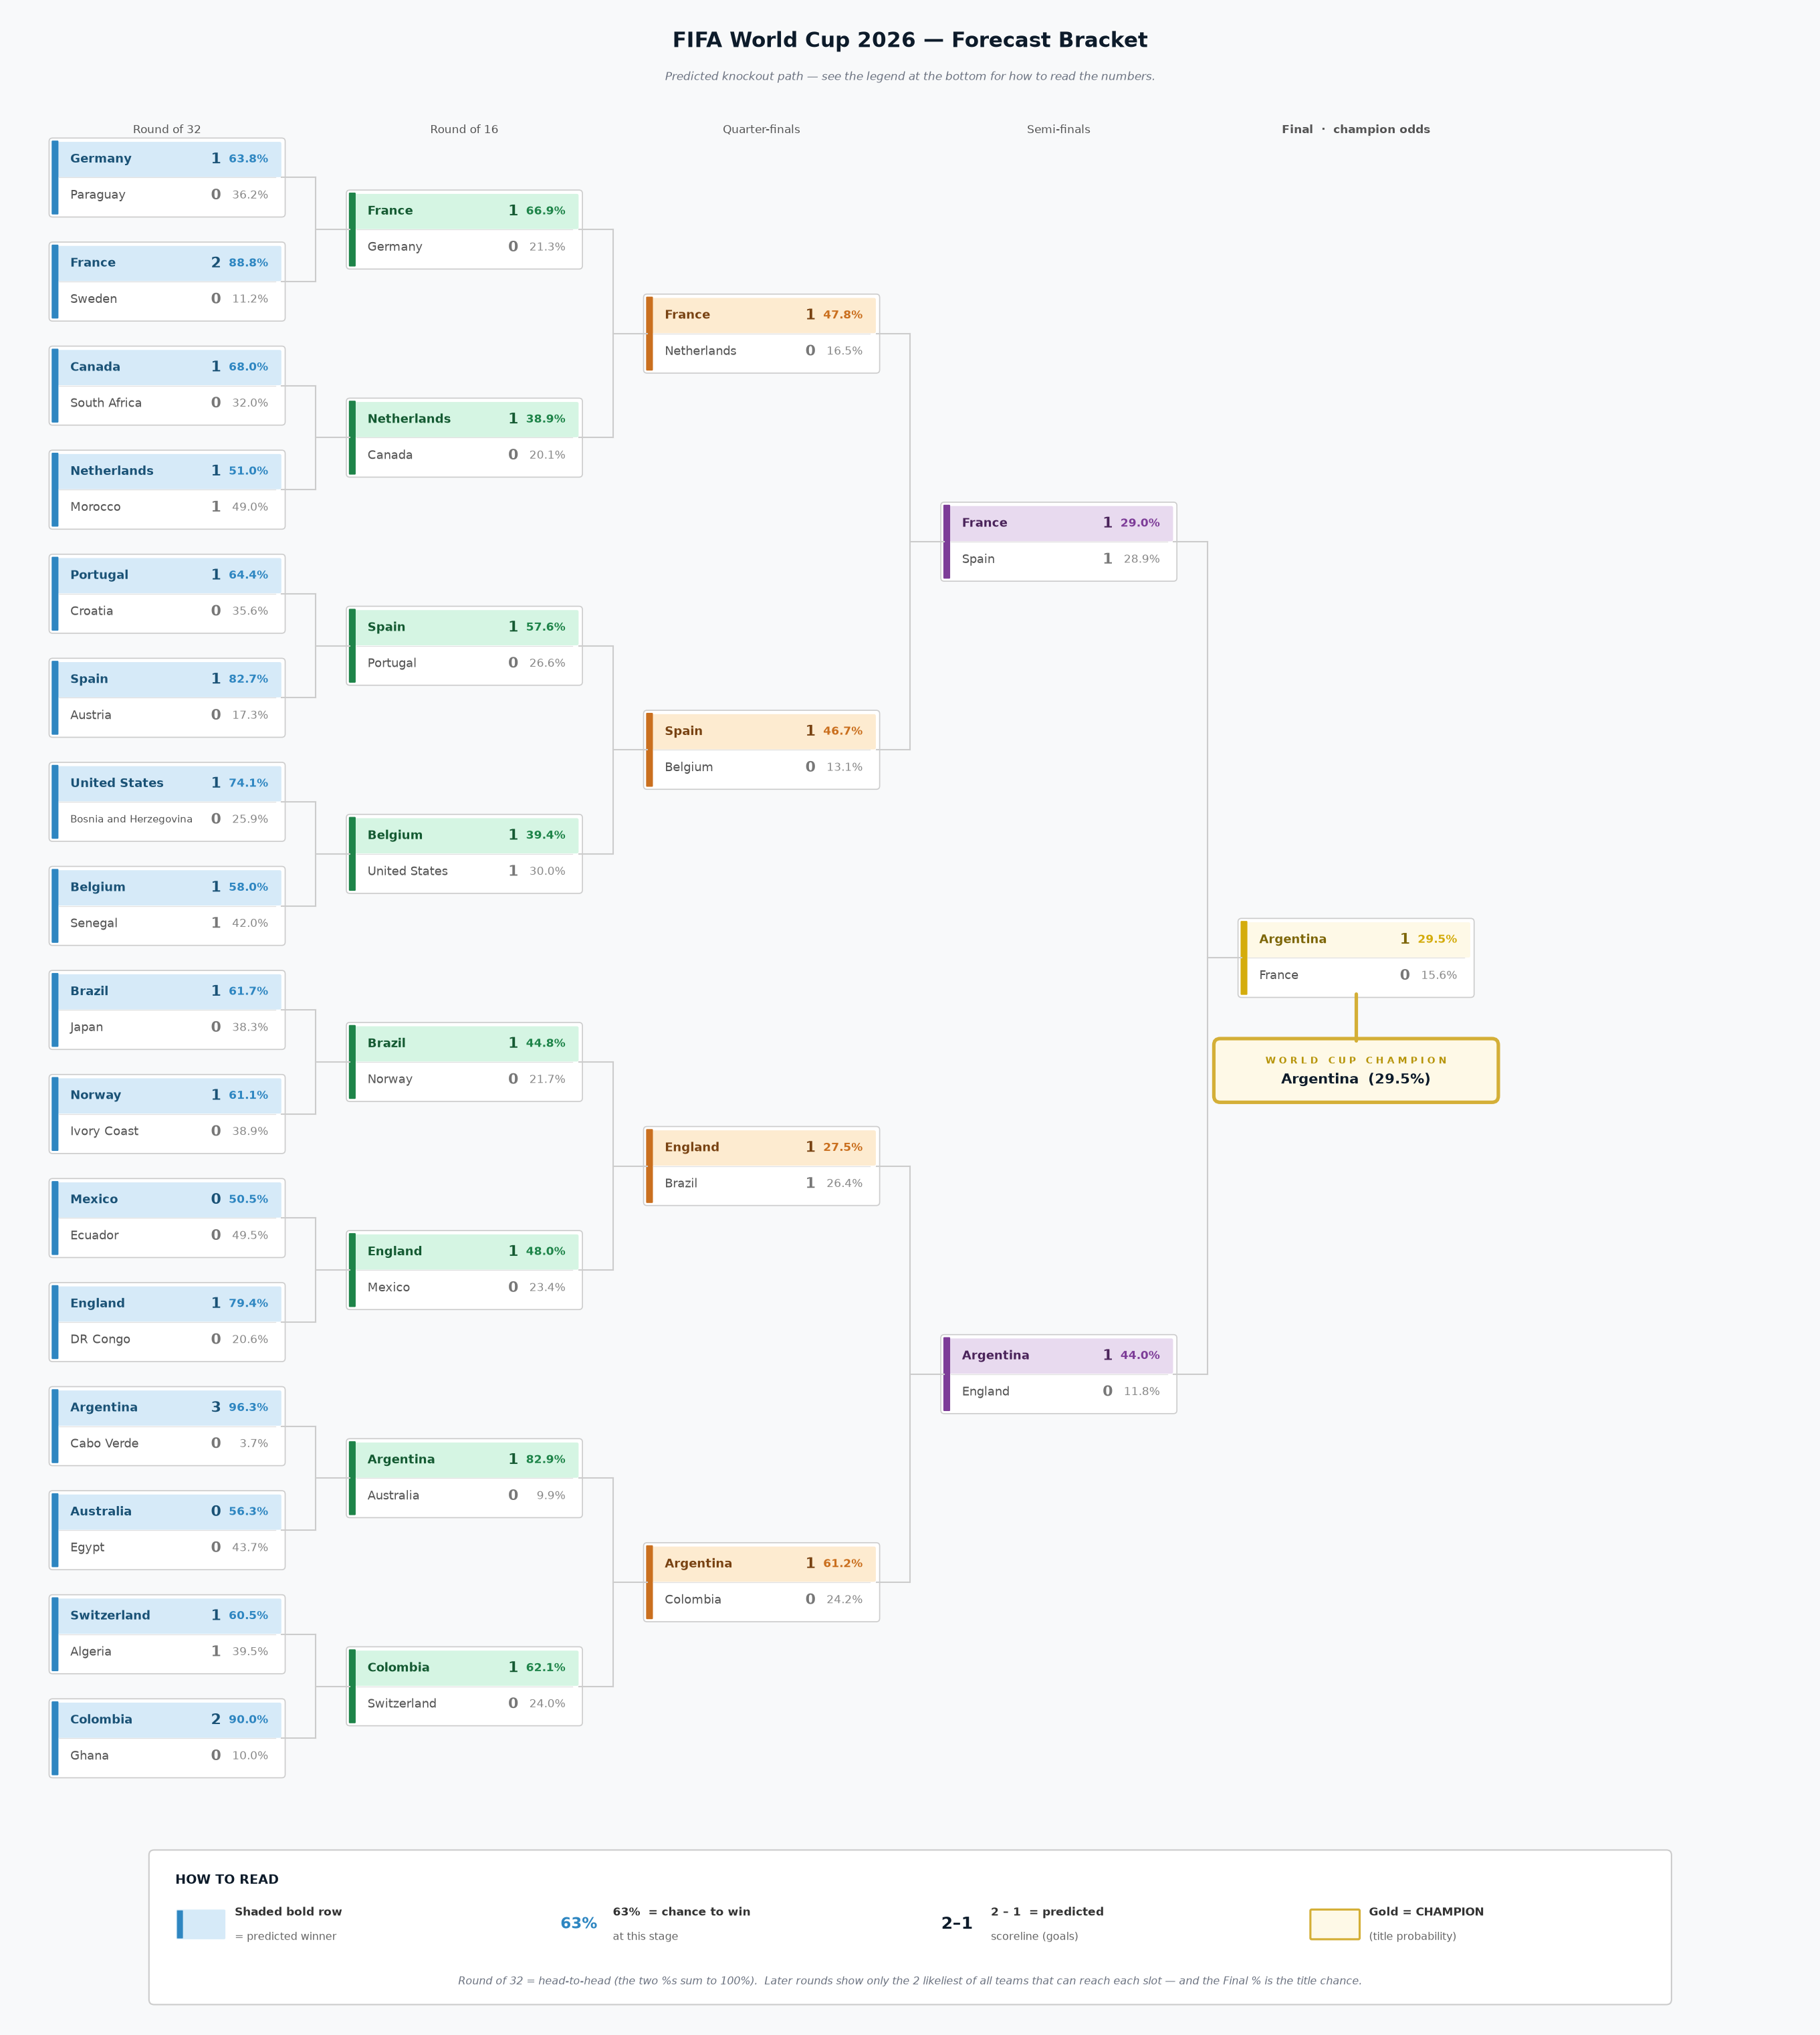
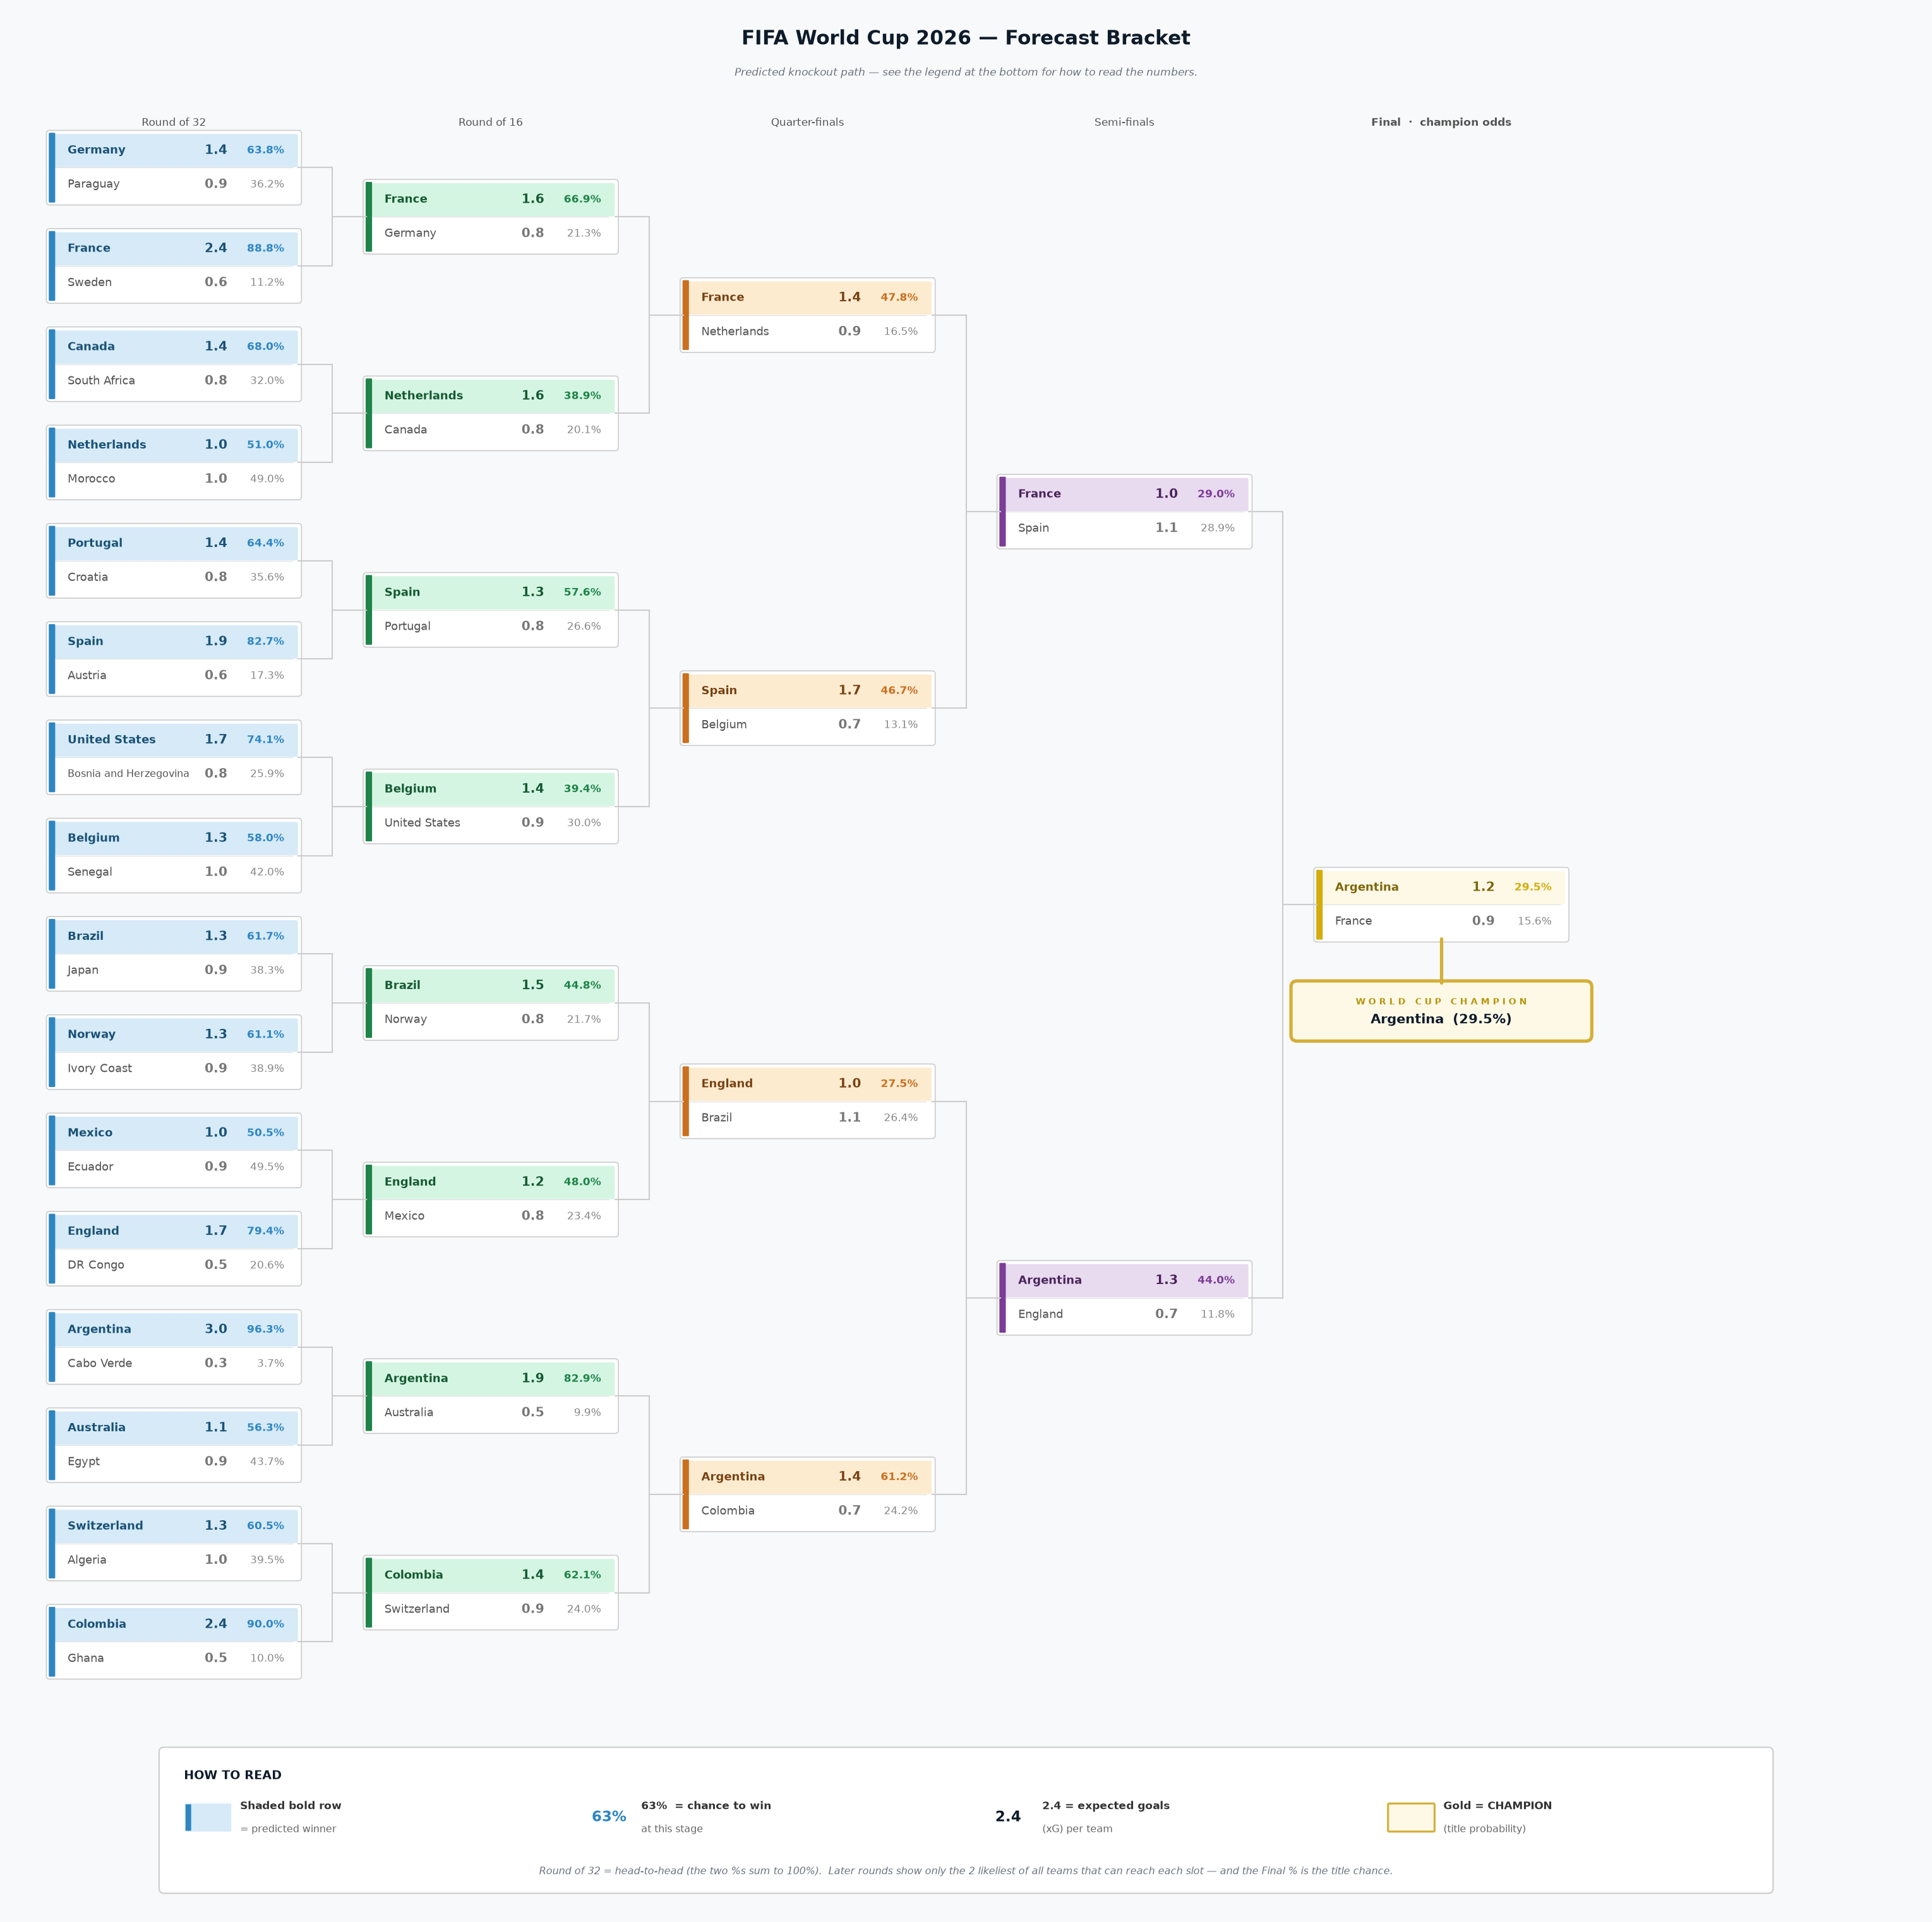
fix(viz): show expected goals (xG) instead of the modal scoreline
The most-likely (modal) scoreline collapses to 1-0 for almost every low-scoring
match, so every bracket box read "1-0" — correct but uninformative.

- Forecaster now attaches per-pairing expected goals (Dixon-Coles λ, 1 dp) as
  ForecastResult.representative_xg instead of the modal scoreline.
- Bracket renders the xG column per team (read vertically), which varies with
  team strength (e.g. Argentina 3.0 - 0.3, France 2.4 - 0.6, England 1.7 - 0.5).
- Wider boxes and re-spaced xG / win% columns so the two numbers no longer
  collide; legend entry updated to "expected goals (xG)".

Full test suite green (1687 passed).

diff --git a/worldcup_playoff/simulation/live_forecast.py b/worldcup_playoff/simulation/live_forecast.py
@@ -90,10 +90,11 @@ class ForecastResult:
     #: deterministic group-stage resolution, used to lay out the bracket plot.
     #: Empty when no qualifiers could be resolved.
     representative_r32: tuple[tuple[str, str], ...] = ()
-    #: Most-likely scoreline per representative slot pairing, keyed ``"HOME|AWAY"``
-    #: -> ``(home_goals, away_goals)`` (Dixon-Coles modal score). Covers every
-    #: round of the representative bracket; empty when no draw is available.
-    representative_scores: dict[str, tuple[int, int]] = field(default_factory=dict)
+    #: Expected goals (xG) per representative slot pairing, keyed ``"HOME|AWAY"``
+    #: -> ``(xg_home, xg_away)`` — the Dixon-Coles goal rates λ, rounded to one
+    #: decimal. Preferred over the modal scoreline, whose mode collapses to 1-0
+    #: for almost every low-scoring match. Empty when no draw is available.
+    representative_xg: dict[str, tuple[float, float]] = field(default_factory=dict)
 
 
 # ---------------------------------------------------------------------------
@@ -181,25 +182,28 @@ def forecast_slot_teams(
     return slots
 
 
-def _representative_scores(
+def _representative_xg(
     abilities: TeamAbilities,
     r32: tuple[tuple[str, str], ...],
     round_probabilities: dict[str, dict[str, float]],
-    max_goals: int,
-) -> dict[str, tuple[int, int]]:
-    """Modal scoreline (Dixon-Coles argmax) for every representative slot pairing."""
-    from worldcup_playoff.simulation.poisson import modal_scoreline
+) -> dict[str, tuple[float, float]]:
+    """Expected goals (Dixon-Coles λ, 1 dp) for every representative slot pairing.
+
+    Expected goals are used instead of the modal scoreline because the mode of a
+    low-scoring match collapses to 1-0 almost everywhere, hiding the differences
+    between fixtures; the λ rates vary smoothly with team strength.
+    """
+    from worldcup_playoff.simulation.poisson import lambdas
     if not r32:
         return {}
     slots = forecast_slot_teams(list(r32), round_probabilities)
-    scores: dict[str, tuple[int, int]] = {}
+    xg: dict[str, tuple[float, float]] = {}
     for pairs in slots.values():
         for home, away in pairs:
             if home and away and home != "TBD" and away != "TBD":
-                scores[f"{home}|{away}"] = modal_scoreline(
-                    abilities, home, away, max_goals=max_goals
-                )
-    return scores
+                lh, la = lambdas(abilities, home, away, neutral=True)
+                xg[f"{home}|{away}"] = (round(lh, 1), round(la, 1))
+    return xg
 
 
 # ---------------------------------------------------------------------------
@@ -317,11 +321,10 @@ def run_forecast(
     result = LiveForecaster(
         _group_sim_fn(abilities), _knockout_sim_fn(abilities, resolved)
     ).run(state, abilities, n_simulations, seed)
-    scores = _representative_scores(
+    xg = _representative_xg(
         abilities, result.representative_r32, result.round_probabilities,
-        getattr(resolved.poisson, "max_goals", 10),
     )
-    return replace(result, representative_scores=scores)
+    return replace(result, representative_xg=xg)
 
 
 class LiveForecaster:

diff --git a/worldcup_playoff/visualization/plots.py b/worldcup_playoff/visualization/plots.py
@@ -183,7 +183,7 @@ class ResultPlotter:
         bracket: BracketConfig,
         output_path: Path | None = None,
         slot_teams: dict[int, list[tuple[str, str]]] | None = None,
-        slot_scores: dict[str, tuple[int, int]] | None = None,
+        slot_xg: dict[str, tuple[float, float]] | None = None,
     ) -> None:
         """Render the knockout bracket as a PNG with per-team probabilities.
 
@@ -208,10 +208,10 @@ class ResultPlotter:
         total_rounds = max_round + 1
 
         # --- Layout constants (tweaked for left-to-right single side) ---
-        BOX_W: float = 5.4
+        BOX_W: float = 6.2
         BOX_H: float = 1.7
         ROW_GAP: float = 0.75
-        COL_SPACING: float = 7.0
+        COL_SPACING: float = 7.9
         MARGIN_X: float = 1.0
         MARGIN_TOP: float = 4.8  # room for title + reading guide + column labels
         MARGIN_BOT: float = 4.2  # room for the legend below the bracket
@@ -345,9 +345,9 @@ class ResultPlotter:
                     key=lambda tp: tp[1],
                     reverse=True,
                 )
-                score = (slot_scores or {}).get(f"{home}|{away}")
-                goals = {home: score[0], away: score[1]} if score else None
-                self._draw_team_box(ax, bx, by, team_probs, palette, BOX_W, BOX_H, goals)
+                xg = (slot_xg or {}).get(f"{home}|{away}")
+                xg_map = {home: xg[0], away: xg[1]} if xg else None
+                self._draw_team_box(ax, bx, by, team_probs, palette, BOX_W, BOX_H, xg_map)
 
         # --- Champion banner below the Final slot ---
         if max_round in rounds:
@@ -435,7 +435,7 @@ class ResultPlotter:
         palette: tuple[str, str, str],
         box_w: float,
         box_h: float,
-        goals: dict[str, int] | None = None,
+        xg: dict[str, float] | None = None,
     ) -> None:
         """Draw a single bracket slot box at *(x, y)*.
 
@@ -492,9 +492,9 @@ class ResultPlotter:
                 )
 
             ty = ry + row_h / 2
-            name_fs = 8.5 if len(name) <= 15 else 7.0  # shrink long names to avoid overlap
+            name_fs = 8.5 if len(name) <= 16 else 7.5  # shrink long names to avoid overlap
             ax.text(
-                x + 0.42,
+                x + 0.45,
                 ty,
                 name,
                 ha="left",
@@ -504,22 +504,22 @@ class ResultPlotter:
                 color=dark if is_leader else "#555555",
                 fontfamily="sans-serif",
             )
-            # Predicted goals (most-likely scoreline) — read the column vertically.
-            if goals is not None and name in goals:
+            # Expected goals (xG) — read the column vertically as the scoreline.
+            if xg is not None and name in xg:
                 ax.text(
-                    x + box_w - 1.55,
+                    x + box_w - 2.05,
                     ty,
-                    str(goals[name]),
+                    f"{xg[name]:.1f}",
                     ha="center",
                     va="center",
-                    fontsize=10.5,
+                    fontsize=9.5,
                     color=dark if is_leader else "#777777",
                     fontweight="bold",
                     fontfamily="sans-serif",
                 )
             if prob > 0.0:
                 ax.text(
-                    x + box_w - 0.32,
+                    x + box_w - 0.35,
                     ty,
                     f"{prob:.1%}",
                     ha="right",
@@ -589,9 +589,9 @@ class ResultPlotter:
         ax.text(ex + 0.55, row_y, "63%", fontsize=11, fontweight="bold",
                 color="#2e86c1", ha="center", va="center", fontfamily="sans-serif")
 
-        # 3 — predicted scoreline
-        ex = _label(2, "2 – 1  = predicted", "scoreline (goals)")
-        ax.text(ex + 0.55, row_y, "2–1", fontsize=12, fontweight="bold",
+        # 3 — expected goals (xG)
+        ex = _label(2, "2.4 = expected goals", "(xG) per team")
+        ax.text(ex + 0.5, row_y, "2.4", fontsize=11, fontweight="bold",
                 color="#0d1b2a", ha="center", va="center", fontfamily="sans-serif")
 
         # 4 — champion

diff --git a/worldcup_playoff/visualization/forecast_plots.py b/worldcup_playoff/visualization/forecast_plots.py
@@ -216,8 +216,8 @@ def plot_forecast_bracket(
         return
     round_probs = forecast_result.round_probabilities
     slot_teams = forecast_slot_teams(r32, round_probs)
-    slot_scores: dict[str, tuple[int, int]] = getattr(
-        forecast_result, "representative_scores", {}
+    slot_xg: dict[str, tuple[float, float]] = getattr(
+        forecast_result, "representative_xg", {}
     )
     rounds = {
         idx: SimpleNamespace(probabilities=round_probs.get(WC_ROUND_ORDER[idx], {}))
@@ -225,5 +225,5 @@ def plot_forecast_bracket(
     }
     bracket = BracketConfig(name=title, matchups=[Matchup(home=h, away=a) for h, a in r32])
     ResultPlotter(_resolve_config(config)).plot_bracket(
-        rounds, bracket, Path(output_path), slot_teams=slot_teams, slot_scores=slot_scores
+        rounds, bracket, Path(output_path), slot_teams=slot_teams, slot_xg=slot_xg
     )